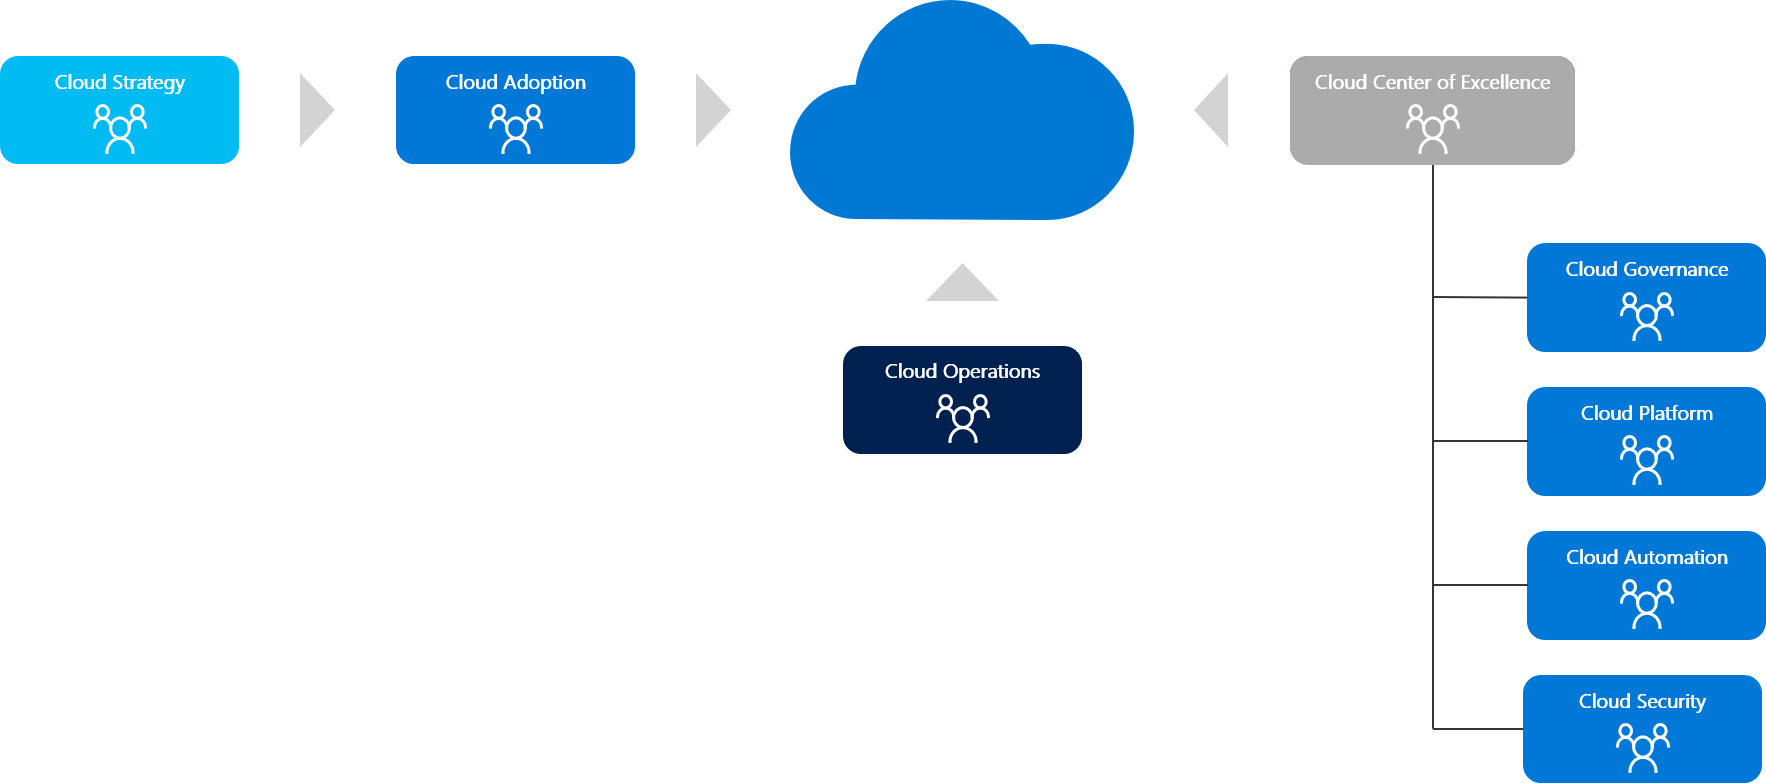
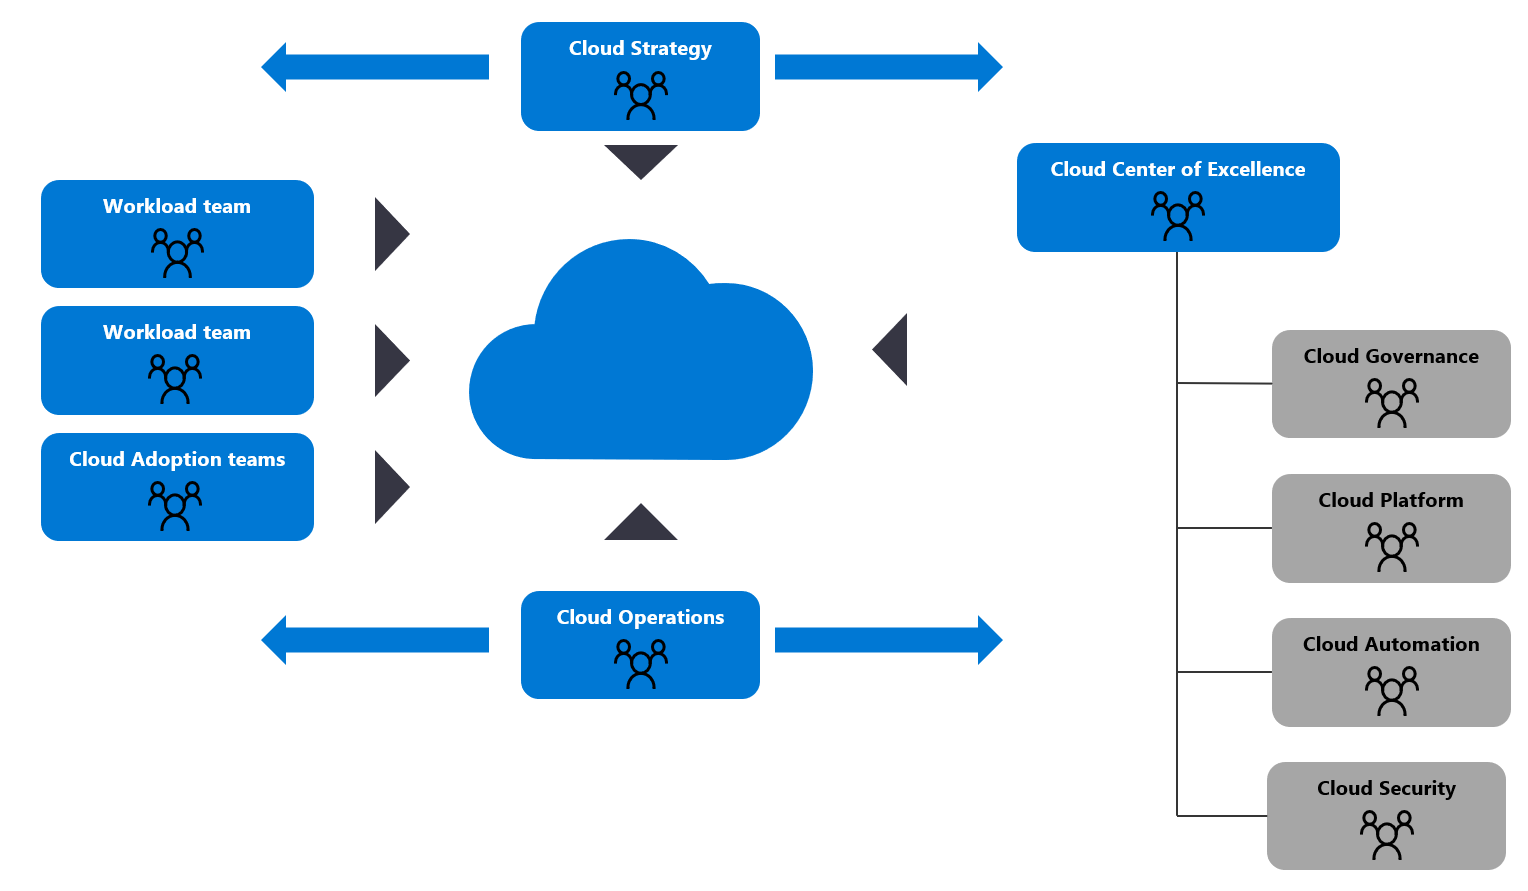
Org content

diff --git a/docs/industry/retail/organize.md b/docs/industry/retail/organize.md
@@ -26,15 +26,51 @@ As with any other industry, support of a [Cloud strategy team](../../organize/cl
 
 When aligning the cloud strategy team, it's important to understand these desired outcomes from various roles. By mapping those desired outcomes to your [cloud adoption strategy](./strategy.md), you can ensure that these roles are adequately represented and can provide feedback to guide and support your [cloud adoption plans](./plan.md).
 
-## Understand common organic growth patterns for retailers: Central IT and central operations
+## Understand common growth patterns for retailers
 
-TODO: Describe the rise of Central IT
+Companies withing the retail industry tend to follow one of three growth patterns. Those corporate growth patterns tend to drive the growth and organization of technology teams.
+
+- Brick and mortar organization with an organically grown ecommerce presence
+- Rapid-growth startups with most (or all of revenue) coming from online growth
+- Brick and mortar organization which acquired one or more startups
+
+The organizational structures resulting from the above growth patterns has a direct impact on the company's ability to mature in the cloud. To organize around cloud strategies and cloud plans, it is important to understand your current organization. It is also important to compare and contrast between your current organization and the organization required to reach the desired [cloud maturity](./retail-cloud-maturity.md) pictured below.
+
+[![Retail cloud maturity](./media/maturity-model.png)](./media/maturity-model.png#lightbox)
+
+The following sections will help compare your current and future state objectives. It will also provide a customized course of action to reach the desired objectives.
+
+## Traditional, Central IT and Centralized operations
+
+When a retail companies foundation is based on brick and mortar business, the technology organization likely formed around specific goals: Keep the lights on and keep products moving. As a result, traditional retail organizations tend to focus on facility management and supply chain technologies. The technology organization tends to also prioritize security, stability, and operations over innovation. Technology teams that have grown in this type of organic growth model often operate as a Central IT organization with a focus on central operations.
+
+This type of technology team organization is well suited for the first two stages of [retail cloud maturity model](retail-cloud-maturity.md): Siloed retail and Connected retail. If your organization needs to go further in that maturity, be sure to read the next section about CCoE and Enterprise operations.
+
+![Central IT team](../../_images/ready/org-ready-central-it.png)
+
+Traditional Central IT teams tend to value consistency and strive to minimize risk, change, or experimentation. This operating model can be replicating in the cloud. To replicate this operating model, the IT organization should study the "Start, Small and Expand approach" to [Azure Landing Zones](./ready.md). From there, the guidance on [Governing](./govern.md) and [Managing](./manage.md) your portfolio will provide valuable information on developing change control practices in the cloud.
+
+To prepare for Central IT and central operations in Azure, the team should evaluate how the current organization structure aligns to the Central IT organizational structure pictured above. New virtual teams (V-teams) or adjustments to the org structure may prove useful to deliver your current operations approaches in Azure. specifically, it is critical that early cloud adoption projects focus on building [cloud governance](../../organize/cloud-governance.md) and [cloud platform](../../organize/cloud-platform.md) functions to extend your Central IT model. Those teams will also need to define a plan for extending or modernizing operations tools to support your overall operating model.
 
 ## New paradigms in retail organizations: CCoE and enterprise operations
 
-TODO: Describe the shift to enterprise operations
+As retail organizations expand into more mature phases of the [retail cloud maturity model](retail-cloud-maturity.md), Central IT models **could potentially** become an inhibitor to innovation for some organizations. It is possible for Central IT to evolve and support more mature models, but re-organization is common in the most successful of modern retailers.
 
-## Next step: Continue your next iteration of cloud adoption
+**Why?** The article on [Cloud Center of Excellence](../../organize/cloud-center-of-excellence.md) details this general paradigm shift in IT management. Summarizing that article & applying it to retail can be reduced to a few statements: Retail consumers are increasingly fickle. Retail competitors respond with rapid innovation to stay relevant. Rapid innovation requires systems and processes that can channel, not block, rapid change.
+
+Rapid growth startups often grow up in this fast pace of change & have processes to channel it. Brick and mortar organizations which have fully embraced & integrate startup acquisition often have some of those controls in place. In either case, innovation tends to have an equal or greater priority, compared to the priority of stability found in the more traditional retail organizations. These organizations tend to empower workload owner to make more decisions & focus on establishing guardrails to protect the company, should poor decisions make it to production. This is a paradigm shift in perspective for traditional Central IT operations teams.
+
+This type of technology team organization is well suited to achieve the latter two stages of [retail cloud maturity model](retail-cloud-maturity.md): analytics-driven retail and intelligent retail. We refer to these organizations as Cloud Center of Excellence (CCoE) teams. Those teams tend to align best with Enterprise Operations.
+
+![Cloud Center of Excellence (CCoE) team](../../_images/ready/org-ready-ccoe.png)
+
+CCoE teams tend to value innovation and delegated responsibility. To replicate this operating model in the cloud, the CCoE team will need to enable advanced cloud capabilities to enable zero trust security, separation of duties, centralized monitoring and visibility, and policies to force adherence to compliance, security & operations guardrails. Those advanced controls can most easily be deployed using the Enterprise-Scale architecture and implementation options of [Azure Landing Zones](./ready.md). From there, the guidance on [Governing](./govern.md) and [Managing](./manage.md) your portfolio will provide valuable on the types of guardrails you will want to review, deploy, and maintain over time.
+
+To prepare for CCoE and enterprise operations in Azure, the team should evaluate how the current organization structure aligns to the CCoE organizational structure pictured above. New virtual teams (V-teams) or adjustments to the org structure will likely be necessary to deliver this advanced operations approach in Azure. Specifically, it is critical that early cloud adoption projects focus on building the [Cloud Center of Excellence](../../organize/cloud-center-of-excellence.md) functions to modernize any existing Central IT models. Those teams may also need to define a plan for replacing existing operations tools used to support any Central IT processes.
+
+## Next step: The cloud adoption journey for the Retail industry
+
+This basic understanding of organizational structures and critical roles in the retail organization will provide enough information to prepare your cloud adoption strategy.
 
 - [Cloud adoption strategy for the Retail industry](./strategy.md)
 - [Cloud adoption plan for the Retail industry](./plan.md)
